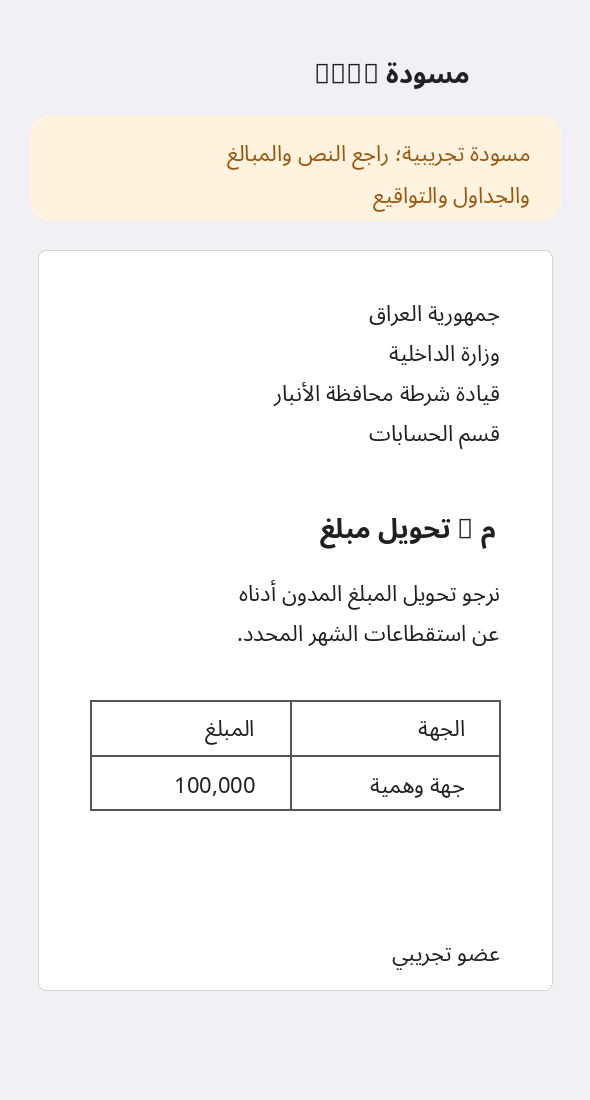
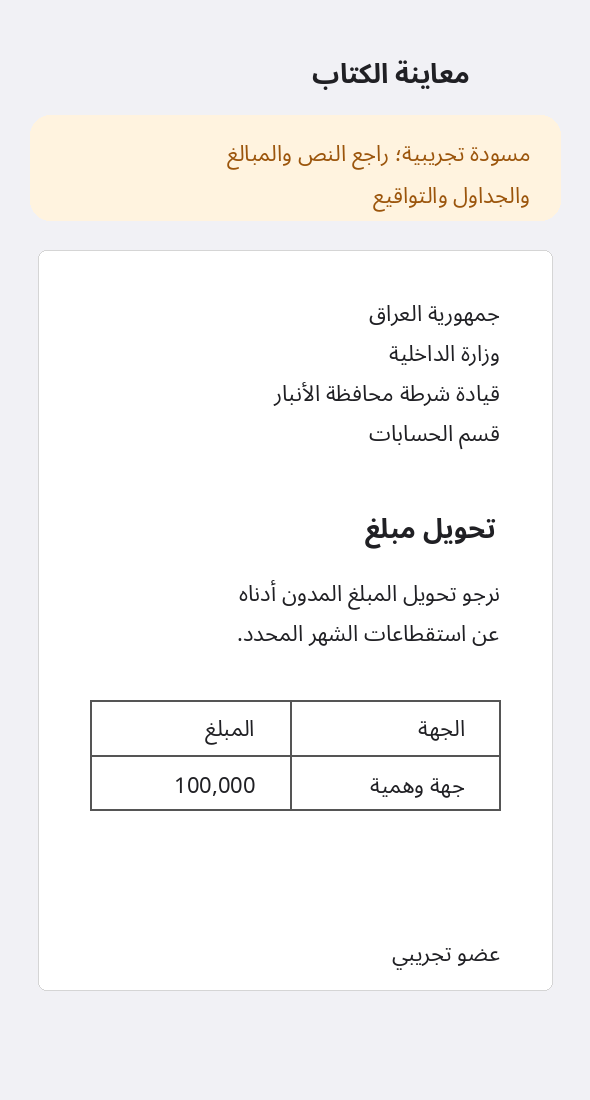
Verify Word draft accounts and test all letter types

Changed region(s): [[0.5492, 0.4636, 0.8542, 0.4945], [0.5186, 0.0309, 0.7627, 0.0927]]

diff --git a/SalaryApp/TransferWordSelfTest.swift b/SalaryApp/TransferWordSelfTest.swift
@@ -1,0 +1,139 @@
+#if targetEnvironment(simulator)
+import Foundation
+import UIKit
+import PDFKit
+import ZIPFoundation
+import CryptoKit
+
+/// اختبارات مستقلة لمسار Word، لا تستخدم قوالب أو حسابات حقيقية.
+@MainActor enum TransferWordSelfTest {
+    struct Failure: LocalizedError { let errorDescription: String? }
+    static func run() throws -> String {
+        func check(_ ok: Bool, _ message: String) throws { if !ok { throw Failure(errorDescription: message) } }
+        let payer = "IQ06TEST123000000000001", beneficiary = "IQ76TEST123000000000002"
+        let local = String(beneficiary.suffix(15)), month = "تشرين الاول 2026"
+        try check(TransferRules.validIBAN(payer) && TransferRules.validIBAN(beneficiary), "synthetic accounts")
+        let root = FileManager.default.temporaryDirectory.appendingPathComponent("word-selftest-\(UUID().uuidString)", isDirectory: true)
+        try FileManager.default.createDirectory(at: root.appendingPathComponent("templates"), withIntermediateDirectories: true)
+        defer { try? FileManager.default.removeItem(at: root) }
+        let renderer = UIGraphicsPDFRenderer(bounds: CGRect(x: 0, y: 0, width: 595.3, height: 841.9))
+        guard let font = UIFont(name: "Arial-BoldMT", size: 10) else { throw Failure(errorDescription: "synthetic reference font") }
+        func payerRect(_ id: String) -> CGRect {
+            switch id {
+            case "food_company": CGRect(x: 384, y: 350, width: 175, height: 19)
+            case "food_tax", "ramadi", "cash_salary": CGRect(x: 385.99, y: 349.7, width: 170.586, height: 15.543)
+            case "tax_social": CGRect(x: 97.584, y: 333.62, width: 170.6, height: 15.543)
+            case "contracts": CGRect(x: 126.26, y: 333.62, width: 170.586, height: 15.543)
+            case "housing": CGRect(x: 211.37, y: 299.06, width: 170.586, height: 15.543)
+            case "water": CGRect(x: 385.99, y: 333.62, width: 170.586, height: 15.543)
+            case "rafidain_anbar": CGRect(x: 161.06, y: 299.06, width: 170.6, height: 15.543)
+            default: CGRect(x: 385.99, y: 337.58, width: 170.685, height: 15.543)
+            }
+        }
+        func targetRect(_ id: String) -> CGRect {
+            switch id {
+            case "water": CGRect(x: 40.20, y: 349.70, width: 104.91, height: 15.54)
+            case "housing": CGRect(x: 140.42, y: 315.14, width: 105.20, height: 15.54)
+            case "ramadi": CGRect(x: 334.39, y: 365.78, width: 170.66, height: 15.54)
+            default: CGRect(x: 220, y: 450, width: 190, height: 18)
+            }
+        }
+        var records: [TransferReferenceManifest.Template] = []
+        for (id, count) in TransferReferencePack.expected {
+            let pdf = renderer.pdfData { context in
+                context.beginPage()
+                PDFText.draw(payer, in: payerRect(id), font: font, align: .center)
+                if id != "rafidain_anbar" && id != "rafidain_group" && id != "other_banks_group" {
+                    PDFText.draw(id == "water" || id == "housing" ? local : beneficiary, in: targetRect(id), font: font, align: .center)
+                }
+                if count == 2 { context.beginPage() }
+            }
+            let path = "templates/\(id).pdf"
+            try pdf.write(to: root.appendingPathComponent(path))
+            records.append(.init(id: id, path: path, sha256: SHA256.hash(data: pdf).map { String(format: "%02x", $0) }.joined(), pages: count))
+        }
+        try JSONEncoder().encode(TransferReferenceManifest(version: 1, templates: records)).write(to: root.appendingPathComponent("manifest.json"))
+        let packURL = root.appendingPathComponent("synthetic-references.zip")
+        let archive = try Archive(url: packURL, accessMode: .create)
+        try archive.addEntry(with: "manifest.json", relativeTo: root, compressionMethod: .deflate)
+        for record in records { try archive.addEntry(with: record.path, relativeTo: root, compressionMethod: .deflate) }
+        let references = try Data(contentsOf: packURL)
+        _ = try TransferReferencePack.validateData(references)
+        let figures = TransferLetterFigures(month: month, foodFund: 3, foodTax: 5, foodCompany: 92,
+            healthcare: 20, policeFundDonations: 30, sports: 40, incomeTax: 11, socialProtection: 13,
+            contractNominalShare: 17, contractRetirement: 19, payrollCash: 23)
+        let custom = TransferLetterCustomization(header: "ترويسة وهمية", committeeFirst: "عضو وهمي أول",
+            committeeSecond: "عضو وهمي ثان", committeeThird: "عضو وهمي ثالث", footer: "هامش وهمي",
+            fixedNumber: "رقم وهمي", foodContractReference: "عقد وهمي")
+        let cash = TransferCashList(month: month, employees: [.init(id: 1, name: "موظف وهمي", rank: "رتبة وهمية", workplace: "قسم وهمي", amount: 23)])
+        func content(_ url: URL) throws -> String {
+            let zip = try Archive(url: url, accessMode: .read)
+            guard let entry = zip["word/document.xml"] else { throw Failure(errorDescription: "Word content missing") }
+            var data = Data(); _ = try zip.extract(entry) { data.append($0) }
+            return String(decoding: data, as: UTF8.self)
+        }
+        var generated = 0
+        for id in ["food_company", "food_tax", "tax_social", "contracts", "cash_salary"] {
+            let result = try TransferWordDraftGenerator.make(bookID: id, figures: figures, entities: [], entity: nil,
+                individualPlan: nil, cashList: id == "cash_salary" ? cash : nil, references: references,
+                accountLinks: Data(), payerName: "دافع وهمي", payerIBAN: payer, customization: custom)
+            defer { try? FileManager.default.removeItem(at: result.letter.deletingLastPathComponent()) }
+            let xml = try content(result.letter)
+            try check(xml.contains(payer) && xml.contains(beneficiary) && xml.contains("عضو وهمي أول"), "Word payroll \(id)")
+            if id == "cash_salary" { try check(xml.contains("موظف وهمي"), "Word cash list") }
+            generated += 1
+        }
+        do {
+            let wrong = try TransferWordDraftGenerator.make(bookID: "food_company", figures: figures, entities: [], entity: nil,
+                individualPlan: nil, cashList: nil, references: references, accountLinks: Data(), payerName: "دافع وهمي",
+                payerIBAN: beneficiary, customization: custom)
+            try? FileManager.default.removeItem(at: wrong.letter.deletingLastPathComponent())
+            throw Failure(errorDescription: "beneficiary accepted as payer")
+        } catch is Failure { throw Failure(errorDescription: "beneficiary accepted as payer") }
+        catch { }
+        let groupA = ReportGroup(kind: .deductions, month: month, title: "جهة وهمية أولى", count: 1, total: 1200, byEntity: false)
+        let groupB = ReportGroup(kind: .deductions, month: month, title: "جهة وهمية ثانية", count: 1, total: 1800, byEntity: false)
+        let accountA = SavedExecutionAccount(entity: groupA.title, iban: beneficiary, branch: "مصرف الرافدين فرع تجريبي", swift: "TESTIQBAAAA")
+        let accountB = SavedExecutionAccount(entity: groupB.title, iban: beneficiary, branch: "مصرف الرشيد فرع تجريبي", swift: "TESTIQBAAAA")
+        let groupEntities = [TransferEntity(group: groupA, account: accountA, category: .rafidain, missingAmounts: 0),
+                             TransferEntity(group: groupB, account: accountB, category: .otherBanks, missingAmounts: 0)]
+        for id in ["rafidain_group", "other_banks_group"] {
+            let result = try TransferWordDraftGenerator.make(bookID: id, figures: figures, entities: groupEntities, entity: nil,
+                individualPlan: nil, cashList: nil, references: references, accountLinks: Data(), payerName: "دافع وهمي",
+                payerIBAN: payer, customization: custom)
+            defer { try? FileManager.default.removeItem(at: result.letter.deletingLastPathComponent()) }
+            let groupXML = try content(result.letter)
+            try check(result.csv != nil && groupXML.contains("المجموع"), "Word group \(id)")
+            generated += 1
+        }
+        let tooMany = (1...100).map { index -> TransferEntity in
+            let title = "جهة وهمية \(index)"
+            let group = ReportGroup(kind: .deductions, month: month, title: title, count: 1, total: 100, byEntity: false)
+            let account = SavedExecutionAccount(entity: title, iban: beneficiary, branch: "مصرف الرافدين فرع وهمي", swift: "TESTIQBAAAA")
+            return TransferEntity(group: group, account: account, category: .rafidain, missingAmounts: 0)
+        }
+        do {
+            _ = try TransferWordGroupPlan(allEntities: tooMany, category: .rafidain, month: month, payer: "دافع وهمي", payerIBAN: payer)
+            throw Failure(errorDescription: "overfull Word group accepted")
+        } catch is Failure { throw Failure(errorDescription: "overfull Word group accepted") }
+        catch { }
+        for (id, kind) in [("ramadi", TransferIndividualPlan.Kind.ramadi), ("housing", .housing), ("water", .water), ("rafidain_anbar", .rafidainAnbar)] {
+            let title = id == "rafidain_anbar" ? "مصرف الرافدين/فرع الانبار" : "جهة وهمية \(id)"
+            let group = ReportGroup(kind: .deductions, month: month, title: title, count: 1, total: 1200, byEntity: false)
+            let row = ReportRow(id: 1, name: "موظف وهمي", rank: "رتبة وهمية", workplace: "قسم وهمي", amount: 1200, note: "", entity: title)
+            let plan = try TransferIndividualPlan(kind: kind, group: group, rows: [row], missingAmounts: 0)
+            let account: SavedExecutionAccount? = id == "rafidain_anbar" ? nil : SavedExecutionAccount(entity: title, iban: beneficiary, branch: "مصرف وهمي / فرع وهمي", swift: "TESTIQBAAAA")
+            let entity = TransferEntity(group: group, account: account, category: id == "rafidain_anbar" ? .anbar : .otherBanks, missingAmounts: 0)
+            let result = try TransferWordDraftGenerator.make(bookID: id, figures: figures, entities: [entity], entity: entity,
+                individualPlan: plan, cashList: nil, references: references, accountLinks: Data(), payerName: "دافع وهمي",
+                payerIBAN: payer, customization: custom)
+            defer { try? FileManager.default.removeItem(at: result.letter.deletingLastPathComponent()) }
+            let xml = try content(result.letter)
+            try check(xml.contains(payer) && (id != "water" || xml.contains("موظف وهمي")), "Word entity \(id)")
+            generated += 1
+        }
+        try check(generated == 11, "Word draft count")
+        return "wordTransfers=ok drafts=11 synthetic=1"
+    }
+}
+#endif

diff --git a/SalaryApp/TransferWordReferenceAccounts.swift b/SalaryApp/TransferWordReferenceAccounts.swift
@@ -13,7 +13,7 @@ nonisolated enum TransferWordReferenceAccounts {
     static func beneficiary(in text: String, payerIBAN: String) throws -> String {
         let payer = normalized(payerIBAN)
         guard TransferRules.validIBAN(payer), text.utf8.count <= 2_000_000 else { throw Failure.mismatch }
-        let regex = try NSRegularExpression(pattern: "(?i)IQ(?:[\\s]*[A-Z0-9]){21}(?![A-Z0-9])")
+        let regex = try NSRegularExpression(pattern: "(?i)(?<![A-Z0-9])IQ(?:[\\s]*[A-Z0-9]){21}(?![A-Z0-9])")
         let matches = regex.matches(in: text, range: NSRange(text.startIndex..., in: text))
         let values = matches.compactMap { Range($0.range, in: text).map { normalized(String(text[$0])) } }
         let unique = Set(values)
@@ -22,10 +22,24 @@ nonisolated enum TransferWordReferenceAccounts {
         return beneficiary
     }
     static func beneficiary(bookID: String, references: Data, payerIBAN: String) throws -> String {
-        guard ["food_company", "food_tax", "tax_social", "contracts", "cash_salary", "ramadi"].contains(bookID) else { throw Failure.mismatch }
+        let payerRect: CGRect
+        switch bookID {
+        case "food_company": payerRect = CGRect(x: 384, y: 350, width: 175, height: 19)
+        case "food_tax", "ramadi": payerRect = CGRect(x: 385.99, y: 349.7, width: 170.586, height: 15.543)
+        case "cash_salary": payerRect = CGRect(x: 385.99, y: 349.70, width: 170.59, height: 15.55)
+        case "contracts": payerRect = CGRect(x: 126.26, y: 333.62, width: 170.586, height: 15.543)
+        case "tax_social": payerRect = CGRect(x: 97.584, y: 333.62, width: 170.6, height: 15.543)
+        default: throw Failure.mismatch
+        }
         let source = try TransferReferencePack.load([bookID], from: references)
         guard let data = source[bookID], let document = PDFDocument(data: data), !document.isLocked,
-              let text = document.page(at: 0)?.string else { throw Failure.mismatch }
+              let page = document.page(at: 0), let text = page.string else { throw Failure.mismatch }
+        let height = page.bounds(for: .mediaBox).height
+        let box = CGRect(x: payerRect.minX - 0.2, y: height - payerRect.maxY - 0.2,
+                         width: payerRect.width + 0.4, height: payerRect.height + 0.4)
+        let selected = page.selection(for: box)?.string ?? ""
+        let referencePayer = ArabicText.latinDigits(selected).uppercased().filter { $0.isASCII && ($0.isLetter || $0.isNumber) }
+        guard TransferRules.validIBAN(payerIBAN), referencePayer == normalized(payerIBAN) else { throw Failure.mismatch }
         return try beneficiary(in: text, payerIBAN: payerIBAN)
     }
     /// تُقرأ حسابات الكتابين المحليين من مواضع محددة في المرجع المعتمد وتُطابق الحساب المحفوظ.
@@ -46,6 +60,9 @@ nonisolated enum TransferWordReferenceAccounts {
         case "rafidain_anbar":
             payerRect = CGRect(x: 161.06, y: 299.06, width: 170.6, height: 15.543)
             beneficiaryRect = nil
+        case "rafidain_group", "other_banks_group":
+            payerRect = CGRect(x: 385.99, y: 337.58, width: 170.685, height: 15.543)
+            beneficiaryRect = nil
         default: throw Failure.mismatch
         }
         guard TransferRules.validIBAN(payerIBAN) else { throw Failure.mismatch }
@@ -65,5 +82,9 @@ nonisolated enum TransferWordReferenceAccounts {
             guard let beneficiary, !beneficiary.isEmpty,
                   alphanumeric(selected(beneficiaryRect)) == alphanumeric(beneficiary) else { throw Failure.mismatch }
         }
+    }
+    static func verifyGroup(bookID: String, references: Data, payerIBAN: String) throws {
+        guard bookID == "rafidain_group" || bookID == "other_banks_group" else { throw Failure.mismatch }
+        try verifyIndividual(bookID: bookID, references: references, payerIBAN: payerIBAN, beneficiary: nil)
     }
 }

diff --git a/SalaryApp/TransferWordPayrollDraft.swift b/SalaryApp/TransferWordPayrollDraft.swift
@@ -33,13 +33,13 @@ nonisolated enum TransferWordPayrollDraft {
         }
         let body = "نرجو تحويل مبلغ قدره (\(amount)) (\(words)) لا غيرها من حسابنا المرقم (\(plan.payerIBAN)) المفتوح لديكم إلى حساب (\(plan.beneficiaryName)) المرقم (\(plan.beneficiaryIBAN)) (مصرف الرافدين / فرع الأنبار) \(reason) لشهر (\(monthName) / \(year)) وتزويدنا بالإشعار اللازم بذلك."
         let signatureCells = text.committee.map { $0 + "\n" + period.signatureDate }
-        let signatures = TransferWordDocument.Table(headers: [], rows: [signatureCells], halfPoints: 28,
+        let signatures = TransferWordDocument.Table(headers: [], rows: [signatureCells], font: "Times New Roman", halfPoints: 32,
                                                      columnWeights: [1, 1, 1], showBorders: false)
         var blocks: [TransferWordDocument.Block] = [
-            .paragraph(.init(text: text.header, halfPoints: 32, bold: true)),
-            .paragraph(.init(text: "العدد: \(text.fixedNumber)\nالتاريخ: \(period.signatureDate)", halfPoints: 28)),
-            .paragraph(.init(text: "إلى / مصرف الرافدين / فرع الأنبار", halfPoints: 32, bold: true)),
-            .paragraph(.init(text: "م / تحويل مبلغ", halfPoints: 32, bold: true, centered: true)),
+            .paragraph(.init(text: text.header, font: "Sakkal Majalla", halfPoints: 36, bold: true)),
+            .paragraph(.init(text: "العدد: \(text.fixedNumber)\nالتاريخ: \(period.signatureDate)", halfPoints: 30, bold: true)),
+            .paragraph(.init(text: "إلى / مصرف الرافدين / فرع الأنبار", font: "Arial", halfPoints: 32, bold: true)),
+            .paragraph(.init(text: "م / تحويل مبلغ", font: "Arial", halfPoints: 32, bold: true, centered: true)),
             .paragraph(.init(text: body, halfPoints: 28))
         ]
         if plan.bookID != "cash_salary", let table = plan.table { blocks.append(.table(table)) }

diff --git a/SalaryApp/TransferWordGroupDraft.swift b/SalaryApp/TransferWordGroupDraft.swift
@@ -32,13 +32,13 @@ nonisolated enum TransferWordGroupDraft {
               let monthName = values["MONTH"], let year = values["YEAR"] else { throw Failure.incomplete }
         let body = "نرجو تحويل مبلغ قدره (\(amount)) (\(words)) لا غيرها من حسابنا المرقم (\(normalizedPayer)) المفتوح لديكم إلى الحسابات المدرجة تفاصيلها في القائمة المرفقة مع قرص بصيغة (CSV) عن استقطاعات شهر (\(monthName) / \(year)) وتزويدنا بالإشعار اللازم بذلك."
         let signatureCells = text.committee.map { $0 + "\n" + period.signatureDate }
-        let signatures = TransferWordDocument.Table(headers: [], rows: [signatureCells], halfPoints: 28,
+        let signatures = TransferWordDocument.Table(headers: [], rows: [signatureCells], font: "Times New Roman", halfPoints: 32,
                                                      columnWeights: [1, 1, 1], showBorders: false)
         try TransferWordDocument.write(blocks: [
             .paragraph(.init(text: text.header, halfPoints: 32, bold: true)),
-            .paragraph(.init(text: "العدد: \(text.fixedNumber)\nالتاريخ: \(period.signatureDate)", halfPoints: 28)),
-            .paragraph(.init(text: "إلى / مصرف الرافدين / فرع الأنبار", halfPoints: 32, bold: true)),
-            .paragraph(.init(text: "م / تحويل مبلغ", halfPoints: 32, bold: true, centered: true)),
+            .paragraph(.init(text: "العدد: \(text.fixedNumber)\nالتاريخ: \(period.signatureDate)", halfPoints: 30, bold: true)),
+            .paragraph(.init(text: "إلى / مصرف الرافدين / فرع الأنبار", font: "Arial", halfPoints: 32, bold: true)),
+            .paragraph(.init(text: "م / تحويل مبلغ", font: "Arial", halfPoints: 32, bold: true, centered: true)),
             .paragraph(.init(text: body, halfPoints: 28)),
             .table(signatures),
             .paragraph(.init(text: text.footer, halfPoints: 24)),

diff --git a/SalaryApp/TransferWordEntityDraft.swift b/SalaryApp/TransferWordEntityDraft.swift
@@ -38,12 +38,12 @@ nonisolated enum TransferWordEntityDraft {
         }
         let body = "نرجو تحويل مبلغ قدره (\(amount)) (\(words)) لا غيرها من حسابنا المرقم (\(plan.payerIBAN)) المفتوح لديكم \(target) \(reason) لشهر (\(monthName) / \(year)) وتزويدنا بالإشعار اللازم بذلك."
         let signatures = TransferWordDocument.Table(headers: [], rows: [text.committee.map { $0 + "\n" + period.signatureDate }],
-            halfPoints: 28, columnWeights: [1, 1, 1], showBorders: false)
+            font: "Times New Roman", halfPoints: 32, columnWeights: [1, 1, 1], showBorders: false)
         var blocks: [TransferWordDocument.Block] = [
-            .paragraph(.init(text: text.header, halfPoints: 32, bold: true)),
-            .paragraph(.init(text: "العدد: \(text.fixedNumber)\nالتاريخ: \(period.signatureDate)", halfPoints: 28)),
-            .paragraph(.init(text: "إلى / مصرف الرافدين / فرع الأنبار", halfPoints: 32, bold: true)),
-            .paragraph(.init(text: "م / تحويل مبلغ", halfPoints: 32, bold: true, centered: true)),
+            .paragraph(.init(text: text.header, font: "Sakkal Majalla", halfPoints: 36, bold: true)),
+            .paragraph(.init(text: "العدد: \(text.fixedNumber)\nالتاريخ: \(period.signatureDate)", halfPoints: 30, bold: true)),
+            .paragraph(.init(text: "إلى / مصرف الرافدين / فرع الأنبار", font: "Arial", halfPoints: 32, bold: true)),
+            .paragraph(.init(text: "م / تحويل مبلغ", font: "Arial", halfPoints: 32, bold: true, centered: true)),
             .paragraph(.init(text: body, halfPoints: 28)),
             .table(signatures),
             .paragraph(.init(text: text.footer, halfPoints: 24))

diff --git a/SalaryApp/TransferWordPreview.swift b/SalaryApp/TransferWordPreview.swift
@@ -8,6 +8,7 @@ struct TransferWordPreview: UIViewRepresentable {
     func makeUIView(context: Context) -> WKWebView {
         let configuration = WKWebViewConfiguration()
         configuration.defaultWebpagePreferences.allowsContentJavaScript = false
+        configuration.websiteDataStore = .nonPersistent()
         let view = WKWebView(frame: .zero, configuration: configuration)
         view.navigationDelegate = context.coordinator
         view.isOpaque = false
@@ -30,6 +31,9 @@ struct TransferWordPreview: UIViewRepresentable {
         }
         func webView(_ webView: WKWebView, didFail navigation: WKNavigation!, withError error: Error) { report(error) }
         func webView(_ webView: WKWebView, didFailProvisionalNavigation navigation: WKNavigation!, withError error: Error) { report(error) }
+        func webViewWebContentProcessDidTerminate(_ webView: WKWebView) {
+            DispatchQueue.main.async { self.loadFailed.wrappedValue = true }
+        }
         private func report(_ error: Error) {
             guard (error as NSError).code != NSURLErrorCancelled else { return }
             DispatchQueue.main.async { self.loadFailed.wrappedValue = true }

diff --git a/SalaryApp/TransferFilesSelfTest.swift b/SalaryApp/TransferFilesSelfTest.swift
@@ -256,6 +256,12 @@ import CryptoKit
         } catch is Failure { throw Failure(errorDescription: "Word group wrong month accepted") }
         catch { }
         do {
+            try TransferWordGroupDraft.write(plan: wordGroup, month: group.month, payerIBAN: fakeBeneficiary, text: groupText,
+                destination: FileManager.default.temporaryDirectory.appendingPathComponent("wrong-payer-\(UUID().uuidString).docx"))
+            throw Failure(errorDescription: "Word group wrong payer accepted")
+        } catch is Failure { throw Failure(errorDescription: "Word group wrong payer accepted") }
+        catch { }
+        do {
             let unknown = TransferEntity(group: secondGroup, account: nil, category: .unresolved, missingAmounts: 0)
             _ = try TransferWordGroupPlan(allEntities: [item, unknown], category: .rafidain,
                 month: group.month, payer: "دافع وهمي", payerIBAN: iban)

diff --git a/SalaryApp/TransferWordEntityPlan.swift b/SalaryApp/TransferWordEntityPlan.swift
@@ -52,6 +52,8 @@ nonisolated struct TransferWordEntityPlan: Sendable {
                       ArabicText.normalize($0.rank) == ArabicText.normalize(employee.rank) }) else { throw Failure.incomplete }
             id = "water"; number = local; personName = employee.name; personRank = employee.rank; table = nil
         case .rafidainAnbar:
+            // هذا المتن موجّه لحساب مصرف الفرع نفسه؛ الجهات الأخرى تحتاج كتبها المنفردة.
+            guard TransferRules.isAnbarBankSource(plan.group.title) else { throw Failure.incomplete }
             if let account {
                 guard TransferAccountLinks.authorizes(title: plan.group.title, account: account, data: accountLinks),
                       TransferRules.validIBAN(account.iban), TransferRules.classify(account) == .anbar else { throw Failure.incomplete }

diff --git a/SalaryApp/ReportsHome.swift b/SalaryApp/ReportsHome.swift
@@ -110,6 +110,10 @@ struct ReportsView: View {
             .task(id: loadKey) { await loadDeductions() }
             .task {
                 #if targetEnvironment(simulator)
+                if UserDefaults.standard.bool(forKey: "wordTransferTest") {
+                    do { LaunchOptions.writeReport(try TransferWordSelfTest.run()) }
+                    catch { LaunchOptions.writeReport("wordTransfers=failed \(error.localizedDescription)") }
+                }
                 if UserDefaults.standard.bool(forKey: "transferFilesTest") {
                     do { LaunchOptions.writeReport(try await TransferFilesSelfTest.run()) }
                     catch { LaunchOptions.writeReport("transferFiles=failed \(error.localizedDescription)") }

diff --git a/SalaryApp/TransferWordDraftGenerator.swift b/SalaryApp/TransferWordDraftGenerator.swift
@@ -27,6 +27,7 @@ nonisolated enum TransferWordDraftGenerator {
         switch bookID {
         case "rafidain_group", "other_banks_group":
             let category: TransferCategory = bookID == "rafidain_group" ? .rafidain : .otherBanks
+            try TransferWordReferenceAccounts.verifyGroup(bookID: bookID, references: references, payerIBAN: payerIBAN)
             let plan = try TransferWordGroupPlan(allEntities: entities, category: category, month: figures.month,
                 payer: payerName, payerIBAN: payerIBAN)
             try TransferWordGroupDraft.write(plan: plan, month: figures.month, payerIBAN: payerIBAN, text: text, destination: letter)

diff --git a/SalaryApp/TransferWordDocument.swift b/SalaryApp/TransferWordDocument.swift
@@ -5,7 +5,7 @@ import ZIPFoundation
 nonisolated enum TransferWordDocument {
     struct Paragraph: Sendable {
         var text: String
-        var font: String = "Arial"
+        var font: String = "Times New Roman"
         var halfPoints: Int = 28
         var bold = false
         var centered = false
